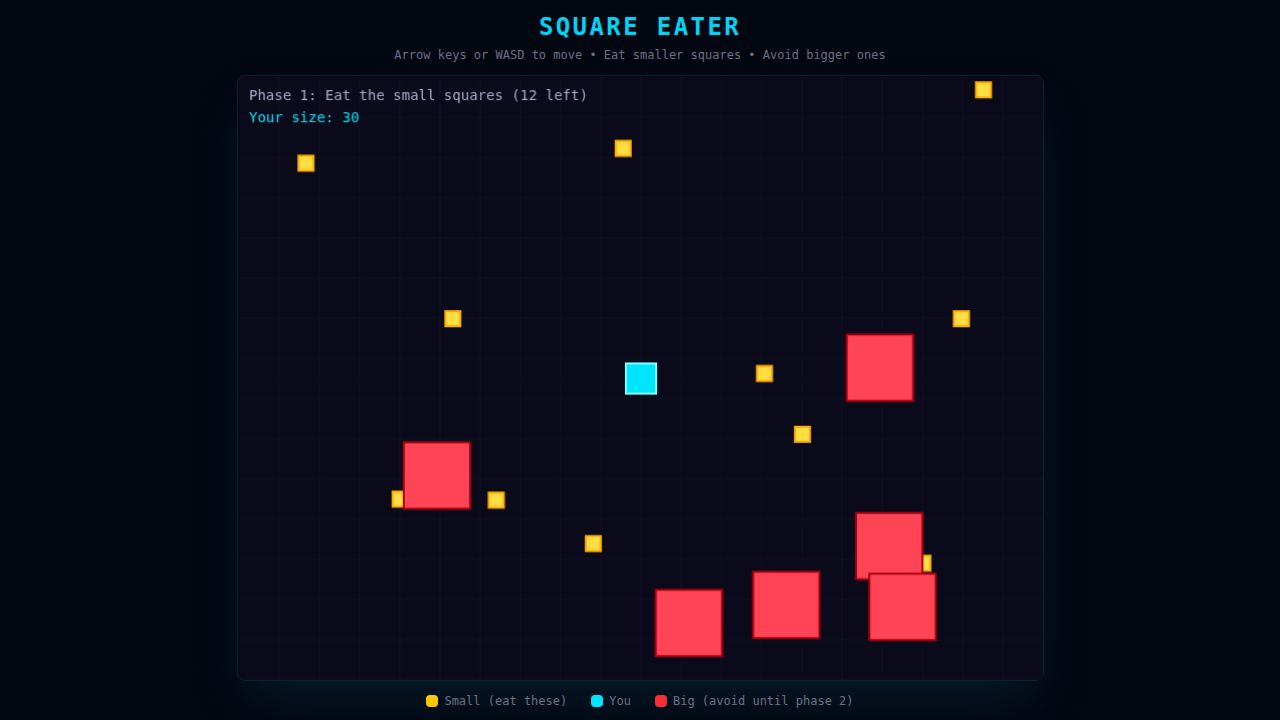
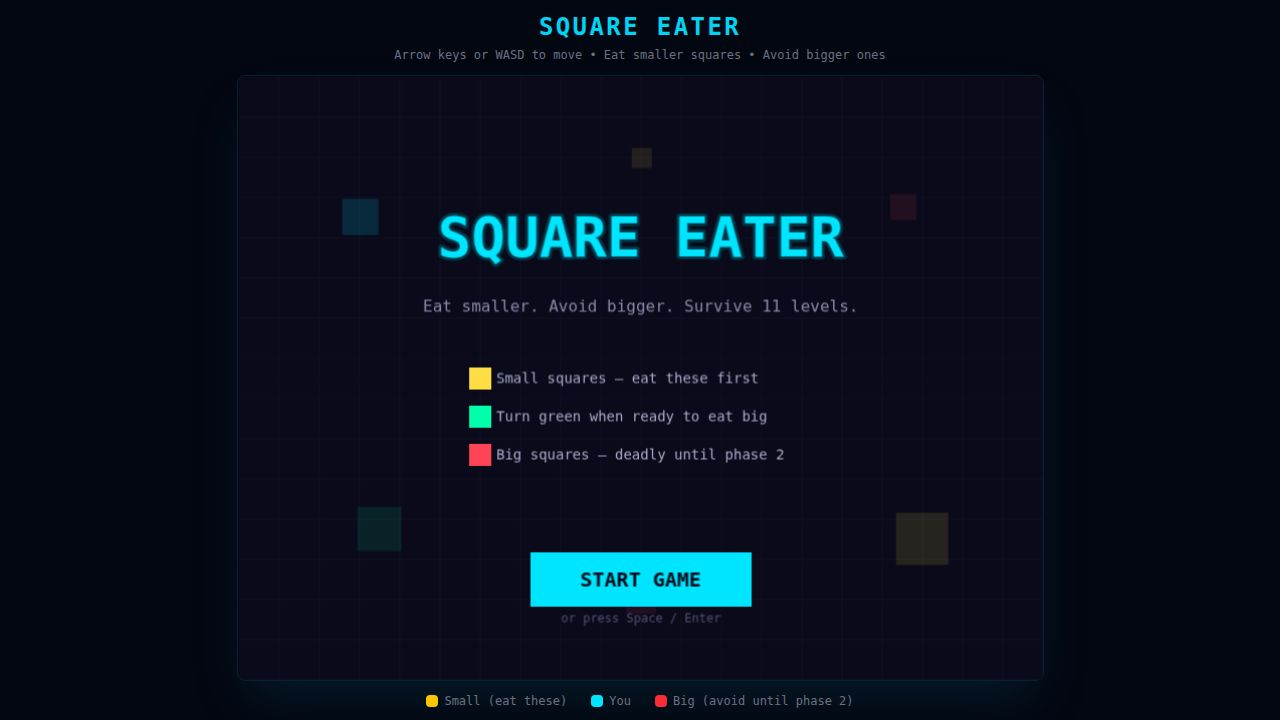
Add a main game menu and options to return to it
Introduces `MenuScene.ts` as the initial Phaser scene, displays a title, instructions, and a start button. Modifies `GameScene.ts` to allow returning to the menu from game over and win screens via the 'M' key. Updates `Game.tsx` to include `MenuScene` in the Phaser configuration.

Replit-Commit-Author: Agent
Replit-Commit-Session-Id: a0368ec3-cbfd-4693-a190-6b7cb59621fc
Replit-Commit-Checkpoint-Type: full_checkpoint
Replit-Commit-Event-Id: 4c813d44-3194-4370-bc69-dfd887a640fd
Replit-Commit-Screenshot-Url: https://storage.googleapis.com/screenshot-production-us-central1/a97b5bee-7442-4421-ac9c-7bb9244ab5c6/a0368ec3-cbfd-4693-a190-6b7cb59621fc/l5CSe5R
Replit-Helium-Checkpoint-Created: true

diff --git a/artifacts/square-eater/src/game/MenuScene.ts b/artifacts/square-eater/src/game/MenuScene.ts
@@ -1,0 +1,114 @@
+import Phaser from "phaser";
+
+const CANVAS_W = 800;
+const CANVAS_H = 600;
+
+export class MenuScene extends Phaser.Scene {
+  constructor() {
+    super({ key: "MenuScene" });
+  }
+
+  create() {
+    // Background
+    this.add.rectangle(CANVAS_W / 2, CANVAS_H / 2, CANVAS_W, CANVAS_H, 0x0a0a1a);
+    this.add.grid(0, 0, CANVAS_W * 2, CANVAS_H * 2, 40, 40, 0x0a0a1a, 0, 0x1a1a3a, 0.4).setOrigin(0, 0);
+
+    // Decorative squares drifting in the background
+    this.spawnDeco(120, 140, 36, 0x00e5ff, 0.15);
+    this.spawnDeco(680, 460, 52, 0xffdd44, 0.12);
+    this.spawnDeco(660, 130, 26, 0xff4455, 0.1);
+    this.spawnDeco(140, 450, 44, 0x00ffaa, 0.1);
+    this.spawnDeco(400, 80,  20, 0xffdd44, 0.1);
+    this.spawnDeco(400, 520, 30, 0xff4455, 0.1);
+
+    // Title
+    this.add.text(CANVAS_W / 2, 160, "SQUARE EATER", {
+      fontSize: "56px",
+      color: "#00e5ff",
+      fontFamily: "monospace",
+      fontStyle: "bold",
+      stroke: "#003344",
+      strokeThickness: 6,
+    }).setOrigin(0.5);
+
+    // Tagline
+    this.add.text(CANVAS_W / 2, 228, "Eat smaller. Avoid bigger. Survive 11 levels.", {
+      fontSize: "16px",
+      color: "#8888aa",
+      fontFamily: "monospace",
+    }).setOrigin(0.5);
+
+    // How-to-play pill labels
+    const hints = [
+      { color: 0xffdd44, label: "Small squares — eat these first" },
+      { color: 0x00ffaa, label: "Turn green when ready to eat big" },
+      { color: 0xff4455, label: "Big squares — deadly until phase 2" },
+    ];
+    hints.forEach(({ color, label }, i) => {
+      const y = 300 + i * 38;
+      this.add.rectangle(CANVAS_W / 2 - 160, y, 22, 22, color).setOrigin(0.5);
+      this.add.text(CANVAS_W / 2 - 144, y, label, {
+        fontSize: "14px",
+        color: "#aaaacc",
+        fontFamily: "monospace",
+      }).setOrigin(0, 0.5);
+    });
+
+    // Start button
+    const btnW = 220;
+    const btnH = 54;
+    const btnX = CANVAS_W / 2;
+    const btnY = 500;
+
+    const btnBg = this.add.rectangle(btnX, btnY, btnW, btnH, 0x00e5ff)
+      .setInteractive({ useHandCursor: true });
+    const btnText = this.add.text(btnX, btnY, "START GAME", {
+      fontSize: "20px",
+      color: "#0a0a1a",
+      fontFamily: "monospace",
+      fontStyle: "bold",
+    }).setOrigin(0.5);
+
+    // Button hover states
+    btnBg.on("pointerover", () => {
+      btnBg.setFillStyle(0x80ffff);
+    });
+    btnBg.on("pointerout", () => {
+      btnBg.setFillStyle(0x00e5ff);
+    });
+    btnBg.on("pointerdown", () => {
+      btnBg.setFillStyle(0x009ab0);
+    });
+    btnBg.on("pointerup", () => {
+      this.scene.start("GameScene", { level: 1 });
+    });
+
+    // Also start on Space / Enter
+    this.input.keyboard!.once("keydown-SPACE", () => this.scene.start("GameScene", { level: 1 }));
+    this.input.keyboard!.once("keydown-ENTER", () => this.scene.start("GameScene", { level: 1 }));
+
+    // Hint below button
+    this.add.text(CANVAS_W / 2, btnY + 38, "or press Space / Enter", {
+      fontSize: "12px",
+      color: "#555577",
+      fontFamily: "monospace",
+    }).setOrigin(0.5);
+
+    // Keep btnText above btnBg in depth
+    btnText.setDepth(1);
+  }
+
+  private spawnDeco(x: number, y: number, size: number, color: number, alpha: number) {
+    const sq = this.add.rectangle(x, y, size, size, color, alpha);
+    const dur = Phaser.Math.Between(4000, 8000);
+    this.tweens.add({
+      targets: sq,
+      x: x + Phaser.Math.Between(-60, 60),
+      y: y + Phaser.Math.Between(-60, 60),
+      duration: dur,
+      ease: "Sine.easeInOut",
+      yoyo: true,
+      repeat: -1,
+    });
+  }
+}

diff --git a/artifacts/square-eater/src/game/GameScene.ts b/artifacts/square-eater/src/game/GameScene.ts
@@ -291,10 +291,13 @@ export class GameScene extends Phaser.Scene {
     this.player.setFillStyle(0xff0000);
     this.overlay.setFillStyle(0x000000, 0.75);
     this.overlayText.setText("GAME OVER").setColor("#ff4455");
-    this.subText.setText(`You touched a bigger square!\nPress R to retry Level ${this.currentLevel}`);
+    this.subText.setText(`You touched a bigger square!\nR — retry Level ${this.currentLevel}   M — main menu`);
 
     this.input.keyboard!.once("keydown-R", () => {
       this.scene.restart({ level: this.currentLevel });
+    });
+    this.input.keyboard!.once("keydown-M", () => {
+      this.scene.start("MenuScene");
     });
   }
 
@@ -315,10 +318,13 @@ export class GameScene extends Phaser.Scene {
     this.player.setFillStyle(0xffdd00);
     this.overlay.setFillStyle(0x000000, 0.75);
     this.overlayText.setText("YOU WIN!").setColor("#ffdd00");
-    this.subText.setText("All 11 levels conquered!\nPress R to play again");
+    this.subText.setText("All 11 levels conquered!\nR — play again   M — main menu");
 
     this.input.keyboard!.once("keydown-R", () => {
       this.scene.restart({ level: 1 });
+    });
+    this.input.keyboard!.once("keydown-M", () => {
+      this.scene.start("MenuScene");
     });
   }
 }

diff --git a/artifacts/square-eater/src/pages/Game.tsx b/artifacts/square-eater/src/pages/Game.tsx
@@ -1,5 +1,6 @@
 import { useEffect, useRef } from "react";
 import Phaser from "phaser";
+import { MenuScene } from "../game/MenuScene";
 import { GameScene } from "../game/GameScene";
 
 export default function Game() {
@@ -15,7 +16,7 @@ export default function Game() {
       height: 600,
       backgroundColor: "#0a0a1a",
       parent: containerRef.current,
-      scene: [GameScene],
+      scene: [MenuScene, GameScene],
       scale: {
         mode: Phaser.Scale.FIT,
         autoCenter: Phaser.Scale.CENTER_BOTH,
